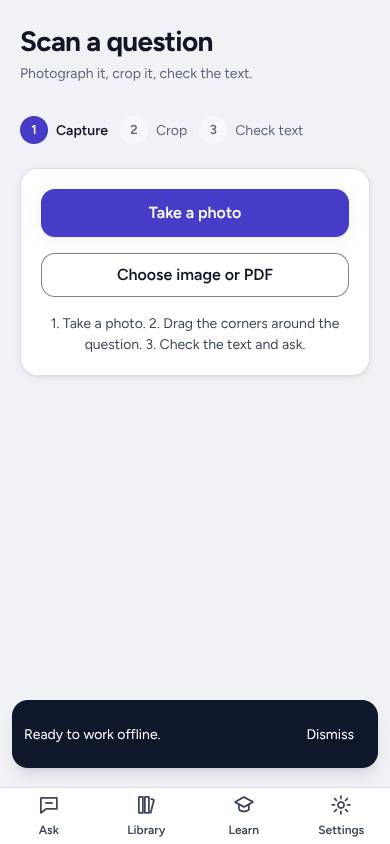
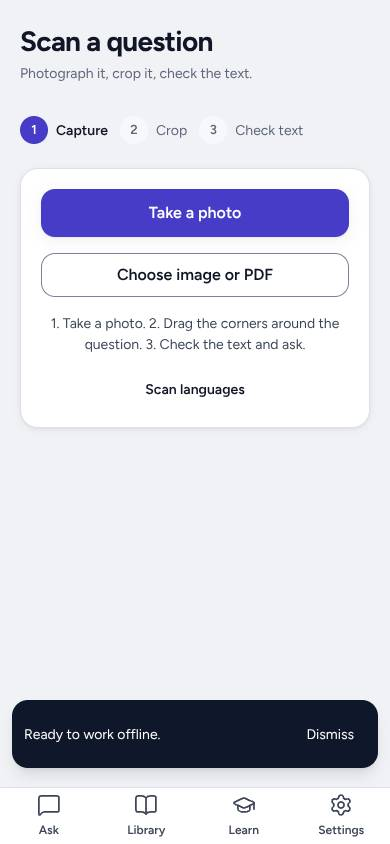
[AI-4] scan: hide tab bar on crop step, refreshed screenshots; engines node>=22

diff --git a/src/features/scan/ScanPage.tsx b/src/features/scan/ScanPage.tsx
@@ -1,6 +1,7 @@
 import { useCallback, useEffect, useRef, useState } from 'react';
 import { useNavigate } from 'react-router-dom';
 import { ActionBar, Button, Card, PageHeader, Spinner, Stack, toast } from '@/components/ui';
+import { useHideTabBar } from '@/app/tabbar';
 import { transcribeImage } from '@/lib/ai';
 import { friendlyMessage, OcrError, onOcrProgress, recognize } from '@/lib/ocr';
 import { isNative } from '@/lib/ocr/platform';
@@ -144,6 +145,7 @@ export function ScanPage() {
     if (f) void open(f); else toast('Please drop an image or PDF file.', 'error');
   };
 
+  useHideTabBar(!!source && !pdf); // crop step: more room, the ActionBar sits at the bottom
   const step = !source ? 1 : items.length ? 3 : 2;
   const touch = typeof matchMedia === 'function' && matchMedia('(pointer: coarse)').matches;
   const [hint, setHint] = useState(() => { try { return !localStorage.getItem('scanHintSeen'); } catch { return false; } });
@@ -153,7 +155,7 @@ export function ScanPage() {
   return (
     <div onDragOver={e => { e.preventDefault(); setDragging(true); }} onDragLeave={() => setDragging(false)} onDrop={onDrop}
       className={source ? 'pb-24' : ''}>
-      <PageHeader title="Scan a question" subtitle="Photograph it, crop it, check the text."
+      <PageHeader title="Scan a question" back={source && !pdf ? true : undefined} subtitle="Photograph it, crop it, check the text."
         actions={source && !pdf ? <Button variant="ghost" size="sm" onClick={() => setSource(null)}>New image</Button> : undefined} />
       <Stack gap={6}>
         <div className="[@media(max-height:500px)]:hidden"><StepIndicator step={step} /></div>

diff --git a/src/features/scan/CropEditor.tsx b/src/features/scan/CropEditor.tsx
@@ -49,7 +49,7 @@ export function CropEditor({ url, rect, onChange }: Props) {
   };
 
   return (
-    <div className="max-h-[max(9rem,calc(100svh-17rem))] [@media(max-height:500px)]:max-h-[max(6rem,calc(100svh-15rem))] overflow-auto rounded-lg border border-line bg-raised"
+    <div className="max-h-[max(9rem,calc(100svh-14rem))] [@media(max-height:500px)]:max-h-[max(7rem,calc(100svh-11rem))] overflow-auto rounded-lg border border-line bg-raised"
       style={{ touchAction: zoom > 1 ? 'pan-x pan-y' : 'pan-y' }}
       onPointerDown={onPointerDown} onPointerMove={onPointerMove} onPointerUp={endPointer}
       onPointerCancel={endPointer} onWheel={onWheel}>

diff --git a/docs/status/AI-4.md b/docs/status/AI-4.md
@@ -10,6 +10,7 @@
 - P1 layout pass (Design v2): `/scan` uses PageHeader, a 3-step indicator (Capture, Crop, Check text), a touch-first capture card (Take a photo as the single primary action, 3-step hint, no "drop it here" on touch), a one-time dismissible crop hint, `ActionBar` (Rotate, Enhance, Read text) above the tab bar, crop handles with a 48 px hit area and a 20 px visual dot, ResultCard on Card/Stack with roomy spacing. Checked in headless Chromium at 390x844, 320x568, 640x360 landscape and 1280x800, light and dark: no horizontal overflow, action bar fits at 320. In landscape (360 px high) the steps and hint hide so the crop area and bar fit; the crop scrolls inside its box. Screenshots: `docs/screenshots/scan-*.jpg` (capture and crop steps; result cards not shot because OCR needs a network or the local Tesseract files).
 - "Read with AI" is wired to AI-2's `transcribeImage`; the text fills the same editable box (shows AI error messages as toasts, e.g. offline or no key). Not tested with a real key.
 - P2 language packs manager: "Scan languages" on the capture card opens a sheet listing each language as built in (English), downloaded (size, Remove) or not downloaded (Download). `src/lib/ocr/langs.ts` reads Tesseract's IndexedDB cache directly (3 tests with fake-indexeddb); `downloadPack` in web.ts fills the cache. Uses `OCR_LANGS` from Settings options (read only). Screenshots `docs/screenshots/scan-langs-*.jpg`.
+- Crop step now calls `useHideTabBar(true)` as AI-1 asked (Back arrow in the header, ActionBar at the bottom, more crop room in landscape). Screenshots refreshed. Cross-owner (user approved): added `engines.node >= 22` to package.json (AI-8's request to AI-1).
 ### Remaining
 - DONE by AI-4 at the user's request (cross-owner edit in AI-8's PWA block of `vite.config.ts`, plus one line in `docs/PWA-CONFIG.md`): `eng.traineddata.gz` is now precached and the non-SIMD core is runtime-cached only. AI-8 please pull before touching those lines.
 - Checked: no `any` left in src/lib/ocr or src/features/scan; OCR and PDF libs are lazy chunks (P2 item 9 done).
